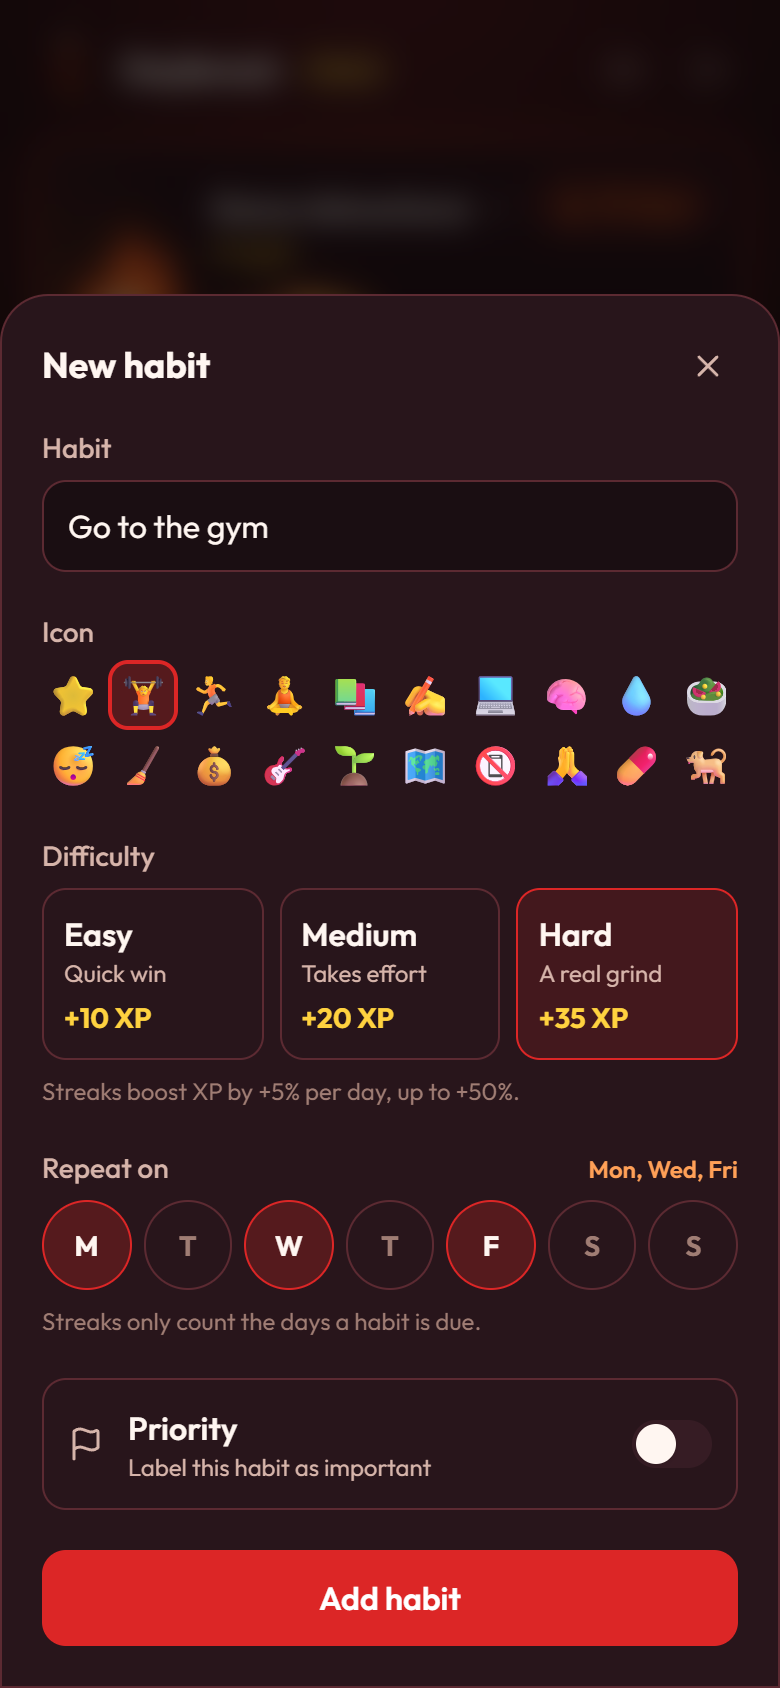
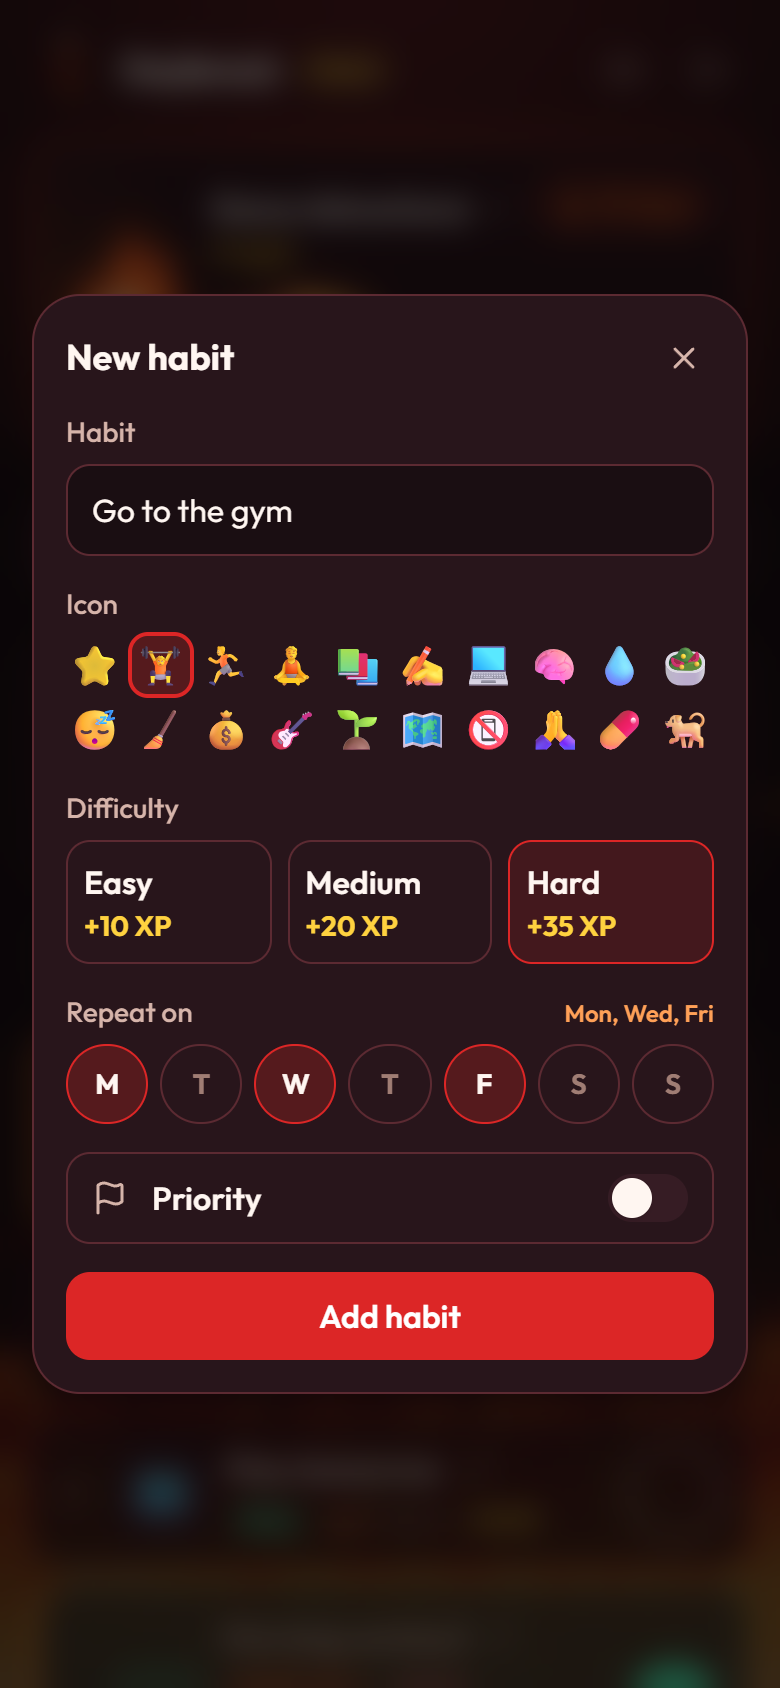
Center dialogs on phones and restyle the level-up glow

diff --git a/src/components/HabitForm.tsx b/src/components/HabitForm.tsx
@@ -22,6 +22,10 @@ const WEEKDAYS = [
   { label: 'S', name: 'Sunday' },
 ]
 
+// Jump straight into the title on devices with a mouse; on touch screens that would pop up the
+// keyboard over the form.
+const finePointer = () => typeof window !== 'undefined' && window.matchMedia?.('(pointer: fine)').matches
+
 interface Props {
   initial?: Habit
   /** today's day key: a schedule change applies from today on */
@@ -52,11 +56,11 @@ export function HabitForm({ initial, today, busy, onSubmit, onTurnOff, onDelete 
   }
 
   return (
-    <form onSubmit={submit} className="space-y-5">
+    <form onSubmit={submit} className="space-y-3.5 sm:space-y-5">
       <label className="block">
         <span className="mb-1.5 block text-sm font-medium text-muted">Habit</span>
         <input
-          autoFocus
+          autoFocus={!initial && finePointer()}
           required
           maxLength={80}
           value={title}
@@ -93,15 +97,14 @@ export function HabitForm({ initial, today, busy, onSubmit, onTurnOff, onDelete 
               type="button"
               onClick={() => setDifficulty(d.id)}
               aria-pressed={difficulty === d.id}
-              className={`rounded-xl border p-2.5 text-left transition ${difficulty === d.id ? 'border-primary bg-primary/15' : 'border-line hover:border-faint'}`}
+              className={`rounded-xl border p-2 text-left transition sm:p-2.5 ${difficulty === d.id ? 'border-primary bg-primary/15' : 'border-line hover:border-faint'}`}
             >
               <span className="block font-semibold">{d.label}</span>
-              <span className="block text-xs text-muted">{d.hint}</span>
-              <span className="mt-1 block text-sm font-bold text-xp">+{BASE_XP[d.id]} XP</span>
+              <span className="hidden text-xs text-muted sm:block">{d.hint}</span>
+              <span className="block text-sm font-bold text-xp sm:mt-1">+{BASE_XP[d.id]} XP</span>
             </button>
           ))}
         </div>
-        <p className="mt-2 text-xs text-faint">Streaks boost XP by +5% per day, up to +50%.</p>
       </fieldset>
 
       <fieldset>
@@ -119,17 +122,17 @@ export function HabitForm({ initial, today, busy, onSubmit, onTurnOff, onDelete 
                 aria-pressed={on}
                 aria-label={w.name}
                 title={on && days.length === 1 ? 'Pick another day first' : w.name}
-                className={`grid aspect-square place-items-center rounded-full border text-sm font-bold transition ${on ? 'border-primary bg-primary/25 text-ink' : 'border-line text-faint hover:border-faint hover:text-muted'}`}
+                className={`grid h-10 place-items-center rounded-full border text-sm font-bold transition sm:h-11 ${on ? 'border-primary bg-primary/25 text-ink' : 'border-line text-faint hover:border-faint hover:text-muted'}`}
               >
                 {w.label}
               </button>
             )
           })}
         </div>
-        <p className="mt-2 text-xs text-faint">
+        <p className={`mt-2 text-xs text-faint ${initial && scheduleChanged ? '' : 'hidden sm:block'}`}>
           {initial && scheduleChanged
             ? 'Applies from today. Past days keep their old schedule, so your streak is safe.'
-            : 'Streaks only count the days a habit is due.'}
+            : 'Streaks count the days a habit is due, and add +5% XP per day, up to +50%.'}
         </p>
       </fieldset>
 
@@ -138,12 +141,12 @@ export function HabitForm({ initial, today, busy, onSubmit, onTurnOff, onDelete 
         role="switch"
         aria-checked={priority}
         onClick={() => setPriority((p) => !p)}
-        className={`flex w-full items-center gap-3 rounded-xl border p-3 text-left transition ${priority ? 'border-sun-blaze-orange/60 bg-sun-crimson/15' : 'border-line hover:border-faint'}`}
+        className={`flex w-full items-center gap-3 rounded-xl border px-3 py-2.5 text-left transition sm:py-3 ${priority ? 'border-sun-blaze-orange/60 bg-sun-crimson/15' : 'border-line hover:border-faint'}`}
       >
         <Flag size={18} className={priority ? 'fill-sun-blaze-orange/50 text-sun-blaze-orange' : 'text-muted'} />
         <span className="flex-1">
           <span className="block font-semibold">Priority</span>
-          <span className="block text-xs text-muted">Label this habit as important</span>
+          <span className="hidden text-xs text-muted sm:block">Label this habit as important</span>
         </span>
         <span className={`relative h-6 w-10 rounded-full transition ${priority ? 'bg-sun-blaze-orange' : 'bg-surface-2'}`} aria-hidden>
           <span className={`absolute top-0.5 size-5 rounded-full bg-ink shadow transition-all ${priority ? 'left-[18px]' : 'left-0.5'}`} />
@@ -152,13 +155,13 @@ export function HabitForm({ initial, today, busy, onSubmit, onTurnOff, onDelete 
 
       <button
         disabled={busy || !title.trim()}
-        className="w-full rounded-xl bg-primary py-3 font-semibold text-white transition hover:brightness-110 active:scale-[0.98] disabled:opacity-50"
+        className="w-full rounded-xl bg-primary py-2.5 font-semibold sm:py-3 text-white transition hover:brightness-110 active:scale-[0.98] disabled:opacity-50"
       >
         {initial ? 'Save changes' : 'Add habit'}
       </button>
 
       {initial && (
-        <div className="flex gap-2 border-t border-line pt-4">
+        <div className="flex gap-2 border-t border-line pt-3 sm:pt-4">
           {onTurnOff && (
             <button type="button" onClick={onTurnOff} className="flex flex-1 items-center justify-center gap-2 rounded-xl border border-line py-2 text-sm text-muted hover:text-ink">
               <PowerOff size={16} /> Turn off

diff --git a/src/components/Modal.tsx b/src/components/Modal.tsx
@@ -3,21 +3,9 @@ import { X } from 'lucide-react'
 import { useEffect, type ReactNode } from 'react'
 import { createPortal } from 'react-dom'
 
-// On phones a modal is a bottom sheet by default, which suits forms (close to the thumb and the keyboard).
-// `centered` floats it in the middle of the screen instead, for short read-only dialogs.
-export function Modal({
-  open,
-  onClose,
-  title,
-  centered = false,
-  children,
-}: {
-  open: boolean
-  onClose: () => void
-  title: string
-  centered?: boolean
-  children: ReactNode
-}) {
+// A dialog floating in the middle of the screen, with a margin all round. It never grows past the
+// screen: anything taller scrolls inside it.
+export function Modal({ open, onClose, title, children }: { open: boolean; onClose: () => void; title: string; children: ReactNode }) {
   useEffect(() => {
     if (!open) return
     const onKey = (e: KeyboardEvent) => e.key === 'Escape' && onClose()
@@ -31,7 +19,7 @@ export function Modal({
     <AnimatePresence>
       {open && (
         <motion.div
-          className={`fixed inset-0 z-40 flex justify-center bg-black/60 backdrop-blur-sm sm:items-center sm:p-4 ${centered ? 'items-center p-4' : 'items-end'}`}
+          className="fixed inset-0 z-40 flex items-center justify-center bg-black/60 p-4 backdrop-blur-sm"
           initial={{ opacity: 0 }}
           animate={{ opacity: 1 }}
           exit={{ opacity: 0 }}
@@ -41,14 +29,14 @@ export function Modal({
             role="dialog"
             aria-modal="true"
             aria-label={title}
-            className={`max-h-[90dvh] w-full max-w-md overflow-y-auto border border-line bg-surface p-5 shadow-2xl sm:rounded-3xl ${centered ? 'rounded-3xl' : 'rounded-t-3xl'}`}
-            initial={centered ? { y: 16, scale: 0.96, opacity: 0 } : { y: 60, opacity: 0 }}
+            className="max-h-[calc(100dvh-2rem)] w-full max-w-md overflow-y-auto rounded-3xl border border-line bg-surface p-4 shadow-2xl sm:p-5"
+            initial={{ y: 16, scale: 0.96, opacity: 0 }}
             animate={{ y: 0, scale: 1, opacity: 1 }}
-            exit={centered ? { y: 16, scale: 0.96, opacity: 0 } : { y: 60, opacity: 0 }}
+            exit={{ y: 16, scale: 0.96, opacity: 0 }}
             transition={{ type: 'spring', stiffness: 350, damping: 30 }}
             onClick={(e) => e.stopPropagation()}
           >
-            <div className="mb-4 flex items-center justify-between">
+            <div className="mb-3 flex items-center justify-between sm:mb-4">
               <h2 className="text-lg font-bold">{title}</h2>
               <button onClick={onClose} className="rounded-lg p-1.5 text-muted hover:bg-surface-2 hover:text-ink" aria-label="Close">
                 <X size={18} />

diff --git a/src/components/Celebrations.tsx b/src/components/Celebrations.tsx
@@ -87,24 +87,21 @@ export function LevelUpModal({ level, title, onClose }: { level: number | null; 
           aria-labelledby="levelup-title"
         >
           <motion.div
-            className="relative w-full max-w-sm overflow-hidden rounded-3xl border border-xp/40 bg-surface p-8 text-center shadow-2xl shadow-xp/20"
+            className="sun-card relative w-full max-w-sm overflow-hidden rounded-3xl border border-sun-crimson/50 p-8 text-center"
             initial={{ scale: 0.5, y: 40 }}
             animate={{ scale: 1, y: 0 }}
             exit={{ scale: 0.8, opacity: 0 }}
             transition={{ type: 'spring', stiffness: 260, damping: 18 }}
             onClick={(e) => e.stopPropagation()}
           >
-            <motion.div
-              aria-hidden
-              className="absolute inset-0 -z-0 opacity-40"
-              style={{ background: 'conic-gradient(from 0deg, transparent, rgb(251 191 36 / 0.35), transparent 30%)' }}
-              animate={{ rotate: 360 }}
-              transition={{ repeat: Infinity, duration: 6, ease: 'linear' }}
-            />
             <div className="relative">
               <p className="text-sm font-bold uppercase tracking-[0.3em] text-xp">Level up!</p>
               {/* The new flame badge, rising up from its base with a bounce */}
-              <div className="my-5 flex items-end justify-center" style={{ height: levelFlame(level).height * LEVEL_UP_SCALE }}>
+              <div className="relative my-5 flex items-end justify-center" style={{ height: levelFlame(level).height * LEVEL_UP_SCALE }}>
+                {/* Sun rays turning slowly behind the flame, over a breathing ember glow. Both fade out
+                    well before the card's edges. */}
+                <div aria-hidden className="levelup-glow" />
+                <div aria-hidden className="levelup-rays" />
                 <motion.div
                   className="origin-bottom"
                   initial={{ scale: 0, y: 20 }}

diff --git a/src/index.css b/src/index.css
@@ -128,6 +128,62 @@
   }
 }
 
+/* Level-up dialog: soft sun rays slowly turning behind the new flame, over a breathing ember glow.
+   Centred on the flame and faded out towards their edges, so no hard line ever shows. */
+.levelup-rays,
+.levelup-glow {
+  position: absolute;
+  left: 50%;
+  top: 50%;
+  border-radius: 50%;
+  pointer-events: none;
+}
+.levelup-rays {
+  width: 340px;
+  height: 340px;
+  margin: -170px 0 0 -170px;
+  background: repeating-conic-gradient(
+    rgb(255 150 50 / 0.3) 0deg,
+    transparent 7deg,
+    transparent 15.5deg,
+    rgb(255 150 50 / 0.3) 22.5deg
+  );
+  mask-image: radial-gradient(closest-side, transparent 18%, black 35%, transparent 100%);
+  animation: levelup-spin 30s linear infinite;
+}
+.levelup-glow {
+  width: 220px;
+  height: 220px;
+  margin: -110px 0 0 -110px;
+  background: radial-gradient(closest-side, rgb(255 122 26 / 0.5), rgb(220 38 38 / 0.22) 55%, transparent);
+  animation: levelup-breathe 2.8s ease-in-out infinite;
+}
+
+@keyframes levelup-spin {
+  to {
+    transform: rotate(360deg);
+  }
+}
+
+@keyframes levelup-breathe {
+  0%,
+  100% {
+    transform: scale(0.9);
+    opacity: 0.75;
+  }
+  50% {
+    transform: scale(1.08);
+    opacity: 1;
+  }
+}
+
+@media (prefers-reduced-motion: reduce) {
+  .levelup-rays,
+  .levelup-glow {
+    animation: none;
+  }
+}
+
 /* Other cards: the same ember panel and heated top rim as the player card, but calmer
    (no pulsing glow), so the player card stays the centrepiece. */
 .sun-panel {

diff --git a/src/components/DayOverview.tsx b/src/components/DayOverview.tsx
@@ -29,7 +29,7 @@ const time = (iso: string) => new Date(iso).toLocaleTimeString([], { hour: '2-di
 export function DayOverview({ day, today, habits, completions, onClose }: Props) {
   const title = day ? formatDay(day, { weekday: 'long', day: 'numeric', month: 'long' }) : ''
   return (
-    <Modal open={day !== null} onClose={onClose} centered title={day === today ? `Today · ${title}` : title}>
+    <Modal open={day !== null} onClose={onClose} title={day === today ? `Today · ${title}` : title}>
       {day && <DayOverviewBody day={day} today={today} habits={habits} completions={completions} />}
     </Modal>
   )

diff --git a/src/components/LevelFlames.tsx b/src/components/LevelFlames.tsx
@@ -10,7 +10,7 @@ const CELL_FLAME_HEIGHT = levelFlame(FLAME_MAX_LEVEL).height
 /** A dialog showing the flame at each rank it passes through, with the player's stage highlighted. */
 export function LevelFlames({ open, level, onClose }: { open: boolean; level: number; onClose: () => void }) {
   return (
-    <Modal open={open} onClose={onClose} centered title="Level flames">
+    <Modal open={open} onClose={onClose} title="Level flames">
       {open && <LevelFlamesBody level={level} />}
     </Modal>
   )

diff --git a/CHANGELOG.md b/CHANGELOG.md
@@ -11,6 +11,18 @@ version; each release is tagged in git (e.g. `v0.7.0`).
 
 ## [Unreleased]
 
+### UI & design
+
+- The level-up dialog matches the fire theme: the same ember panel as the player card, with soft
+  sun rays slowly turning behind the new flame and a warm glow that breathes. It replaces the old
+  gold sweep, which showed a hard diagonal edge as it turned.
+
+### Fixes
+
+- The habit form no longer runs off the bottom of the screen on phones. All pop-ups now float in
+  the middle of the screen, the form is more compact on small screens so it fits without
+  scrolling, and editing a habit no longer pops up the keyboard straight away.
+
 ## [0.15.0] - 2026-10-01
 
 ### Features
